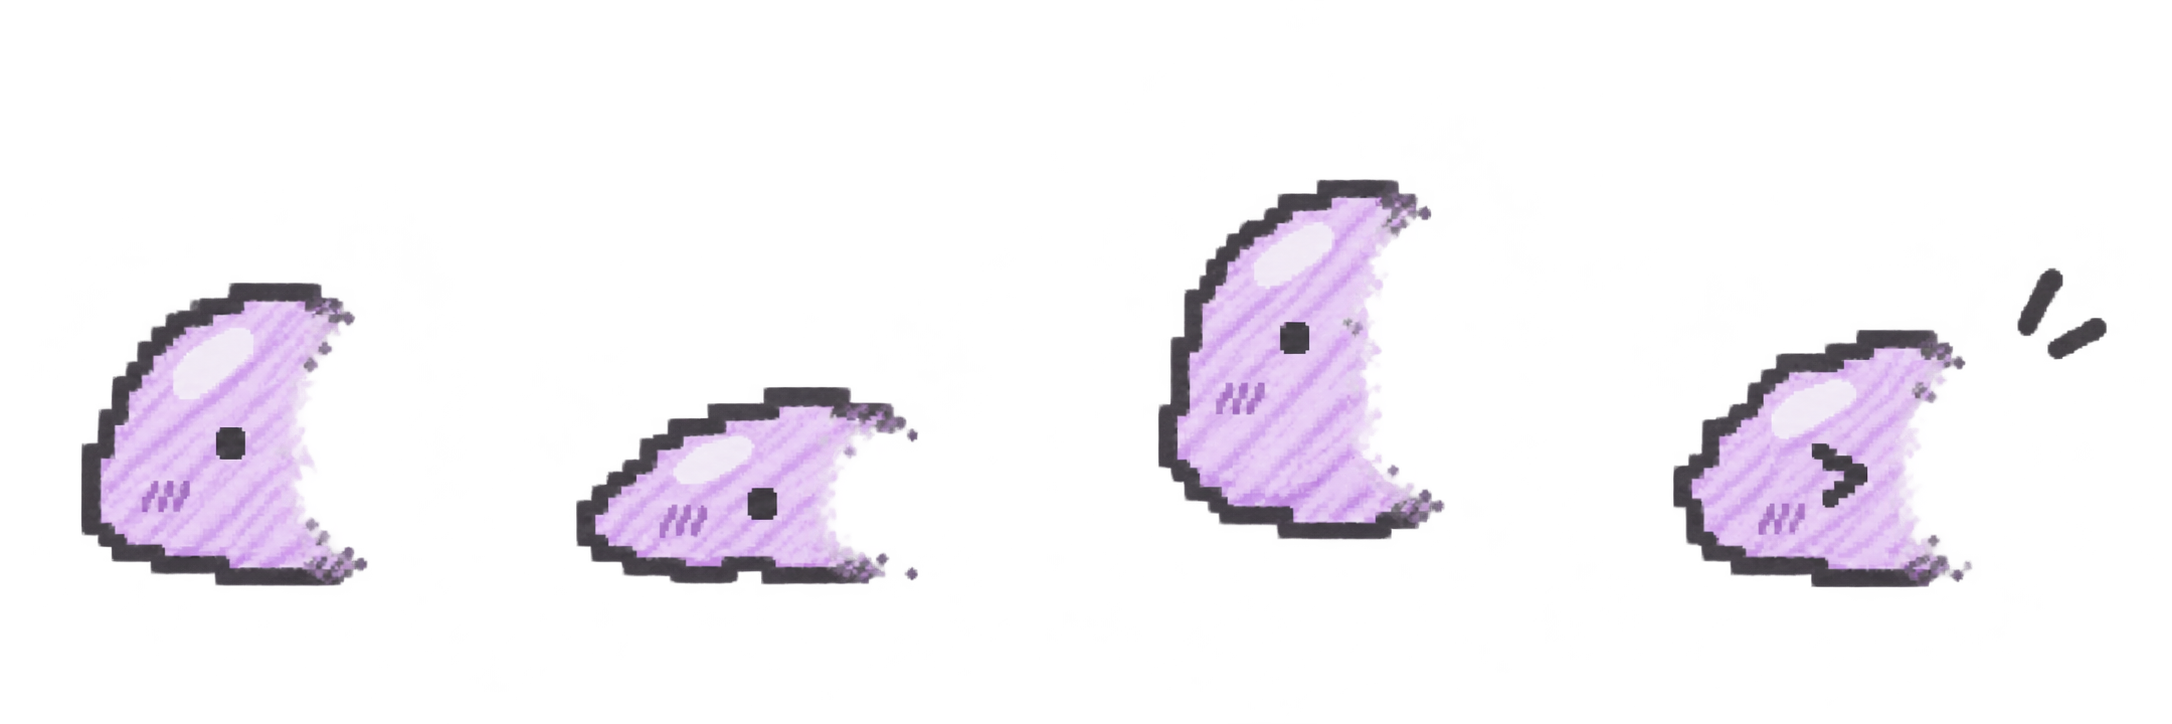
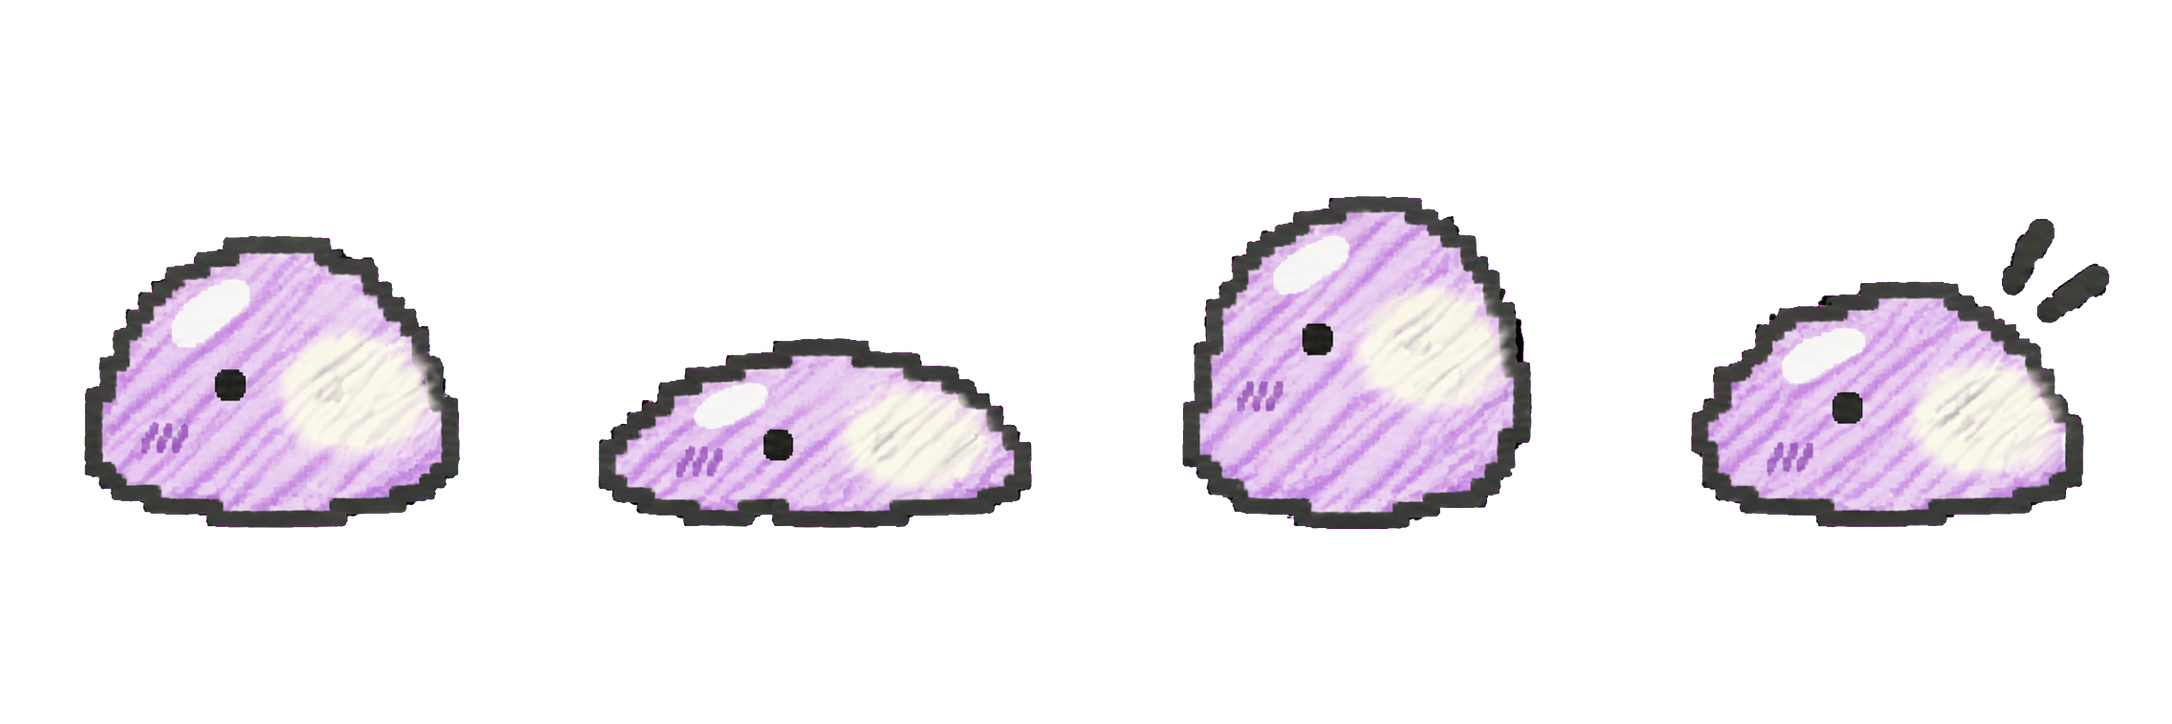
art: 조금 지워진 슬라임을 다시 그림 (몸은 온전하고 눈과 볼만 지워짐)
몸 절반이 통째로 없어 깨진 그림처럼 보이던 것을 고쳤다.
크기와 판정 반경도 온전한 슬라임에 맞췄다.

diff --git a/tools/import_ch1.py b/tools/import_ch1.py
@@ -167,7 +167,7 @@ def main():
         save(scaled(p, w * TEX / p.width), nm)
 
     # 02, 03 지워진 슬라임 (4자세: 기본, 납작, 점프, 맞음)
-    for src, pre, w in [("02_slime_faded", "slimef", 15.0), ("03_slime_erased", "slimee", 24.0)]:
+    for src, pre, w in [("02_slime_faded", "slimef", 24.0), ("03_slime_erased", "slimee", 24.0)]:
         im = load(src)
         pcs = cell_pieces(im, 4, 1)
         s = w * TEX / pcs[(0, 0)][0].width

diff --git a/docs/도트_요구사항.md b/docs/도트_요구사항.md
@@ -44,13 +44,15 @@
 
 ### 02. 얼굴 반쪽 없는 슬라임 (조금 지워진)
 
-| 항목 | 내용 |
+| 항목 | 내용 | 몸통 윤곽과 외곽선은 **온전한 슬라임 그대로** 둔다 (몸을 반으로 자르지 않는다). 왼쪽 눈은 그대로 있고, **오른쪽 눈과 볼 자리**가 지우개로 문지른 듯 종이색(크림빛 흰색)으로 뿌옇게 지워져 있다. 얼굴의 4분의 1쯤. 그 옆 외곽선이 짧게 흐려진다. 입은 없다 |
 |---|---|
 | 파일 | `02_slime_faded.png` |
 | 크기 | 2172 × 724, 가로 4칸 |
 | 칸 순서 | 기본, 납작(움츠림), 점프, 맞음. 지금 슬라임 시트(`pixel-v4-slime-4frames.png`)와 **같은 자세, 같은 크기** |
 | 내용 | 지금의 연보라 슬라임에서 **얼굴 오른쪽 절반**(오른쪽 눈과 볼)이 지워진 모습. 왼쪽 눈은 남아 있다. 입은 없다 |
 | 주의 | 4칸 모두 같은 쪽이 지워져 있어야 한다 |
+
+> 2026-11-22 다시 그림: 처음에는 몸 절반이 통째로 없어서 깨진 그림처럼 보였다. 지워진 곳은 투명하게 비우지 않고 종이색으로 칠한다.
 
 ### 03. 많이 지워진 슬라임
 
